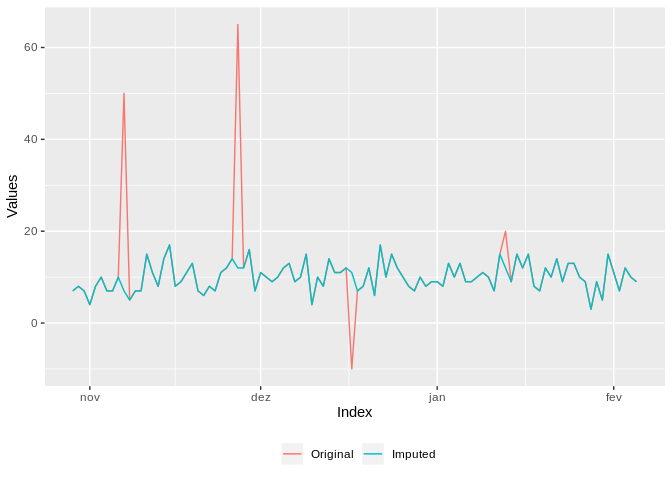
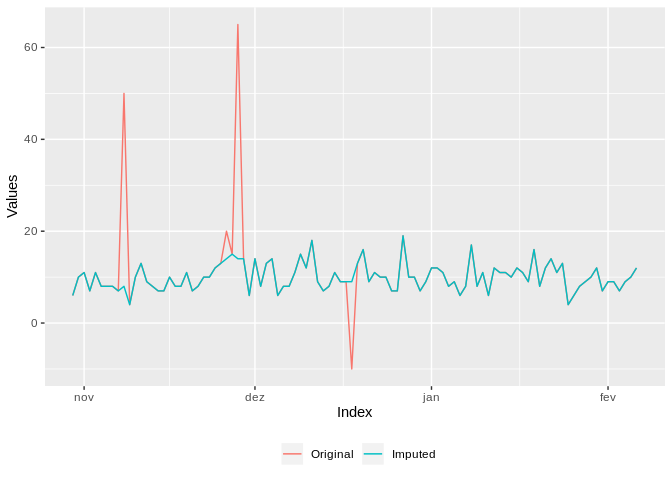
na_input doc #1

diff --git a/README.md b/README.md
@@ -21,13 +21,13 @@ x_modif[49:55]
 ```
 
     ##          DATE SERIES IMPUTED_SERIES OUTLIER_FLAG
-    ## 1: 2018-12-16     12             12            0
-    ## 2: 2018-12-17    -10             11            1
-    ## 3: 2018-12-18      7              7            0
-    ## 4: 2018-12-19      8              8            0
-    ## 5: 2018-12-20     12             12            0
-    ## 6: 2018-12-21      6              6            0
-    ## 7: 2018-12-22     17             17            0
+    ## 1: 2018-12-17      9              9            0
+    ## 2: 2018-12-18    -10              9            1
+    ## 3: 2018-12-19     13             13            0
+    ## 4: 2018-12-20     16             16            0
+    ## 5: 2018-12-21      9              9            0
+    ## 6: 2018-12-22     11             11            0
+    ## 7: 2018-12-23     10             10            0
 
 ``` r
 x_modif %>% 
@@ -56,12 +56,12 @@ Example:
 d1[,1:10]
 ```
 
-    ##    ID       V1       V2       V3       V4       V5        V6       V7
-    ## 1:  1 7.000000 8.000000 7.000000 4.000000 8.000000 10.000000 7.000000
-    ## 2:  2 6.979288 9.223284 6.678826 4.568702 7.292705  9.117328 7.426393
+    ##    ID       V1        V2       V3       V4       V5       V6       V7
+    ## 1:  1 6.000000 10.000000 11.00000 7.000000 11.00000 8.000000 8.000000
+    ## 2:  2 6.244618  9.415799 11.15879 4.281843 11.05028 6.112653 7.382401
     ##          V8       V9
-    ## 1: 7.000000 10.00000
-    ## 2: 7.532658 11.55808
+    ## 1: 8.000000 7.000000
+    ## 2: 6.722458 4.854605
 
 ``` r
 # 'Wide' output format
@@ -70,17 +70,17 @@ insp_outlier(d1, margin = 1, idcol = 1) %>%
   {.[order(ID, PERIOD)]}
 ```
 
-    ##     ID PERIOD   SERIES IMPUTED_SERIES OUTLIER_FLAG
-    ##  1:  1    V38 12.00000       12.00000            0
-    ##  2:  1    V56 10.00000       10.00000            0
-    ##  3:  1    V68 10.00000       10.00000            0
-    ##  4:  1    V74 10.00000       10.00000            0
-    ##  5:  1    V96 11.00000       11.00000            0
-    ##  6:  2    V28 12.78426       12.78426            0
-    ##  7:  2    V53 12.30618       12.30618            0
-    ##  8:  2    V67 12.88026       12.88026            0
-    ##  9:  2    V73 11.18531       11.18531            0
-    ## 10:  2    V98 10.95936       10.95936            0
+    ##     ID PERIOD    SERIES IMPUTED_SERIES OUTLIER_FLAG
+    ##  1:  1    V30 65.000000      14.000000            1
+    ##  2:  1    V33 14.000000      14.000000            0
+    ##  3:  1    V45  7.000000       7.000000            0
+    ##  4:  1     V8  8.000000       8.000000            0
+    ##  5:  1    V98  9.000000       9.000000            0
+    ##  6:  2    V21 10.781461      10.781461            0
+    ##  7:  2    V58  9.008439       9.008439            0
+    ##  8:  2    V60 10.596816      10.596816            0
+    ##  9:  2    V66 10.179573      10.179573            0
+    ## 10:  2    V91  9.785419       9.785419            0
 
 ``` r
 # 'Long' output format
@@ -90,16 +90,16 @@ insp_outlier(d1, margin = 1, out_format = "long") %>%
 ```
 
     ##     ID PERIOD OUTLIER_FLAG IMPUTED     VALUE
-    ##  1:  1    V13            0       1  7.000000
-    ##  2:  1    V37            0       1 10.000000
-    ##  3:  1    V38            0       1 12.000000
-    ##  4:  1    V66            0       0  8.000000
-    ##  5:  1    V80            0       0 12.000000
-    ##  6:  2    V40            0       1  9.763261
-    ##  7:  2    V44            0       0 11.430838
-    ##  8:  2    V45            0       0  7.122475
-    ##  9:  2     V7            0       0  7.426393
-    ## 10:  2    V85            0       1 10.638640
+    ##  1:  1    V23            0       0  8.000000
+    ##  2:  1    V41            0       1 15.000000
+    ##  3:  1    V44            0       1  9.000000
+    ##  4:  1    V72            0       1  8.000000
+    ##  5:  1    V82            0       0 16.000000
+    ##  6:  1    V96            0       0  9.000000
+    ##  7:  2    V13            0       1 13.015939
+    ##  8:  2    V42            0       1 11.140025
+    ##  9:  2    V44            0       1  7.086713
+    ## 10:  2    V97            0       1  7.004491
 
 #### Time series framed in cols
 
@@ -110,11 +110,11 @@ d2[1:5]
 ```
 
     ##          DATE SERIES1 SERIES2
-    ## 1: 2018-01-01       7  2.8832
-    ## 2: 2018-01-02       8  1.3912
-    ## 3: 2018-01-03       7  0.1946
-    ## 4: 2018-01-04       4 -0.9933
-    ## 5: 2018-01-05       8  0.4761
+    ## 1: 2018-01-01       6 -0.8488
+    ## 2: 2018-01-02      10 -0.0055
+    ## 3: 2018-01-03      11 -0.1260
+    ## 4: 2018-01-04       7 -0.9942
+    ## 5: 2018-01-05      11 -1.5702
 
 ``` r
 # 'Wide' output format
@@ -122,19 +122,19 @@ insp_outlier(d2, margin = 2, dtcol = 1) %>% head()
 ```
 
     ##          DATE SERIES1 IMPUTED_SERIES1 OUTLIER_FLAG_SERIES1 SERIES2
-    ## 1: 2018-01-01       7               7                    0  2.8832
-    ## 2: 2018-01-02       8               8                    0  1.3912
-    ## 3: 2018-01-03       7               7                    0  0.1946
-    ## 4: 2018-01-04       4               4                    0 -0.9933
-    ## 5: 2018-01-05       8               8                    0  0.4761
-    ## 6: 2018-01-06      10              10                    0  0.2319
+    ## 1: 2018-01-01       6               6                    0 -0.8488
+    ## 2: 2018-01-02      10              10                    0 -0.0055
+    ## 3: 2018-01-03      11              11                    0 -0.1260
+    ## 4: 2018-01-04       7               7                    0 -0.9942
+    ## 5: 2018-01-05      11              11                    0 -1.5702
+    ## 6: 2018-01-06       8               8                    0  0.9806
     ##    IMPUTED_SERIES2 OUTLIER_FLAG_SERIES2
-    ## 1:          2.8832                    0
-    ## 2:          1.3912                    0
-    ## 3:          0.1946                    0
-    ## 4:         -0.9933                    0
-    ## 5:          0.4761                    0
-    ## 6:          0.2319                    0
+    ## 1:         -0.8488                    0
+    ## 2:         -0.0055                    0
+    ## 3:         -0.1260                    0
+    ## 4:         -0.9942                    0
+    ## 5:         -1.5702                    0
+    ## 6:          0.9806                    0
 
 ``` r
 # 'Long' output format
@@ -144,16 +144,16 @@ insp_outlier(d2, margin = 2, dtcol = 1, out_format = "long") %>%
 ```
 
     ##           DATE  SERIES OUTLIER_FLAG IMPUTED   VALUE
-    ##  1: 2018-01-13 SERIES1            0       0  7.0000
-    ##  2: 2018-01-16 SERIES1            0       1  8.0000
-    ##  3: 2018-03-23 SERIES1            0       1  8.0000
-    ##  4: 2018-03-31 SERIES1            0       0 10.0000
-    ##  5: 2018-04-02 SERIES1            0       0  3.0000
-    ##  6: 2018-01-10 SERIES2            0       1  0.2598
-    ##  7: 2018-01-12 SERIES2            0       1  0.7717
-    ##  8: 2018-02-01 SERIES2            0       1 -3.5262
-    ##  9: 2018-02-12 SERIES2            0       0  1.3193
-    ## 10: 2018-02-15 SERIES2            0       1  0.6839
+    ##  1: 2018-01-24 SERIES1            0       0 10.0000
+    ##  2: 2018-02-23 SERIES1            0       1 11.0000
+    ##  3: 2018-03-01 SERIES1            0       1 10.0000
+    ##  4: 2018-03-07 SERIES1            0       1 11.0000
+    ##  5: 2018-03-21 SERIES1            0       0 11.0000
+    ##  6: 2018-01-17 SERIES2            0       0  2.8654
+    ##  7: 2018-01-20 SERIES2            0       1  0.4729
+    ##  8: 2018-01-22 SERIES2            0       1  0.0019
+    ##  9: 2018-01-28 SERIES2            0       1 -1.1796
+    ## 10: 2018-03-06 SERIES2            0       0 -0.8072
 
 2 `insp_seasonality()`
 ----------------------
@@ -443,10 +443,37 @@ Numerical imputation of vectors. Supported types:
 -   LOCF (Last Observation Carried Forward);
 -   NOCB (Next Observation Carried Backward).
 
+Graphical example:
+
+``` r
+set.seed(1234)
+x <- rpois(20, 2); x[c(1,10,11,12)] <- NA 
+qplot(seq_along(x), x, geom = "line", xlab = "Index", ylab = "Values")
+```
+
+![](README_figs/README-unnamed-chunk-15-1.png)
+
+``` r
+dt <- data.table(Index = seq_along(x), x)
+for(type in c('mean','median','locf','nocb','lin_interp','cub_spline')) {
+  dt[, stringr::str_to_title(type) := na_input(x, how = type)]
+} 
+dt[, -'x'] %>% 
+  melt(id = 'Index') %>% 
+  ggplot(aes(Index, value, color = variable)) +
+  geom_line(size = 1) +
+  labs(y = 'Values', color = 'Imputation Type') +
+  theme(legend.position = 'bottom')
+```
+
+![](README_figs/README-unnamed-chunk-15-2.png)
+
+Changing `window` parameter:
+
 ``` r
 x <- c(NA, 10, 9, 8, 7, NA, NA, 100, 50)
 
-# mean or median, controling window size
+# Controling window size
 na_input(x, how = 'mean') # window default = Inf
 ```
 
@@ -458,30 +485,3 @@ na_input(x, how = 'median', window = 3)
 ```
 
     ## [1]   9  10   9   8   7   9  29 100  50
-
-``` r
-# locf, nocb
-na_input(x, how = 'locf')
-```
-
-    ## [1]  NA  10   9   8   7   7   7 100  50
-
-``` r
-na_input(x, how = 'nocb')
-```
-
-    ## [1]  10  10   9   8   7 100 100 100  50
-
-``` r
-# Approximations
-na_input(x, how = 'lin_interp')
-```
-
-    ## [1]  NA  10   9   8   7  38  69 100  50
-
-``` r
-na_input(x, how = 'cub_spline')
-```
-
-    ## [1]  13.67734  10.00000   9.00000   8.00000   7.00000  39.60130  83.71901
-    ## [8] 100.00000  50.00000
